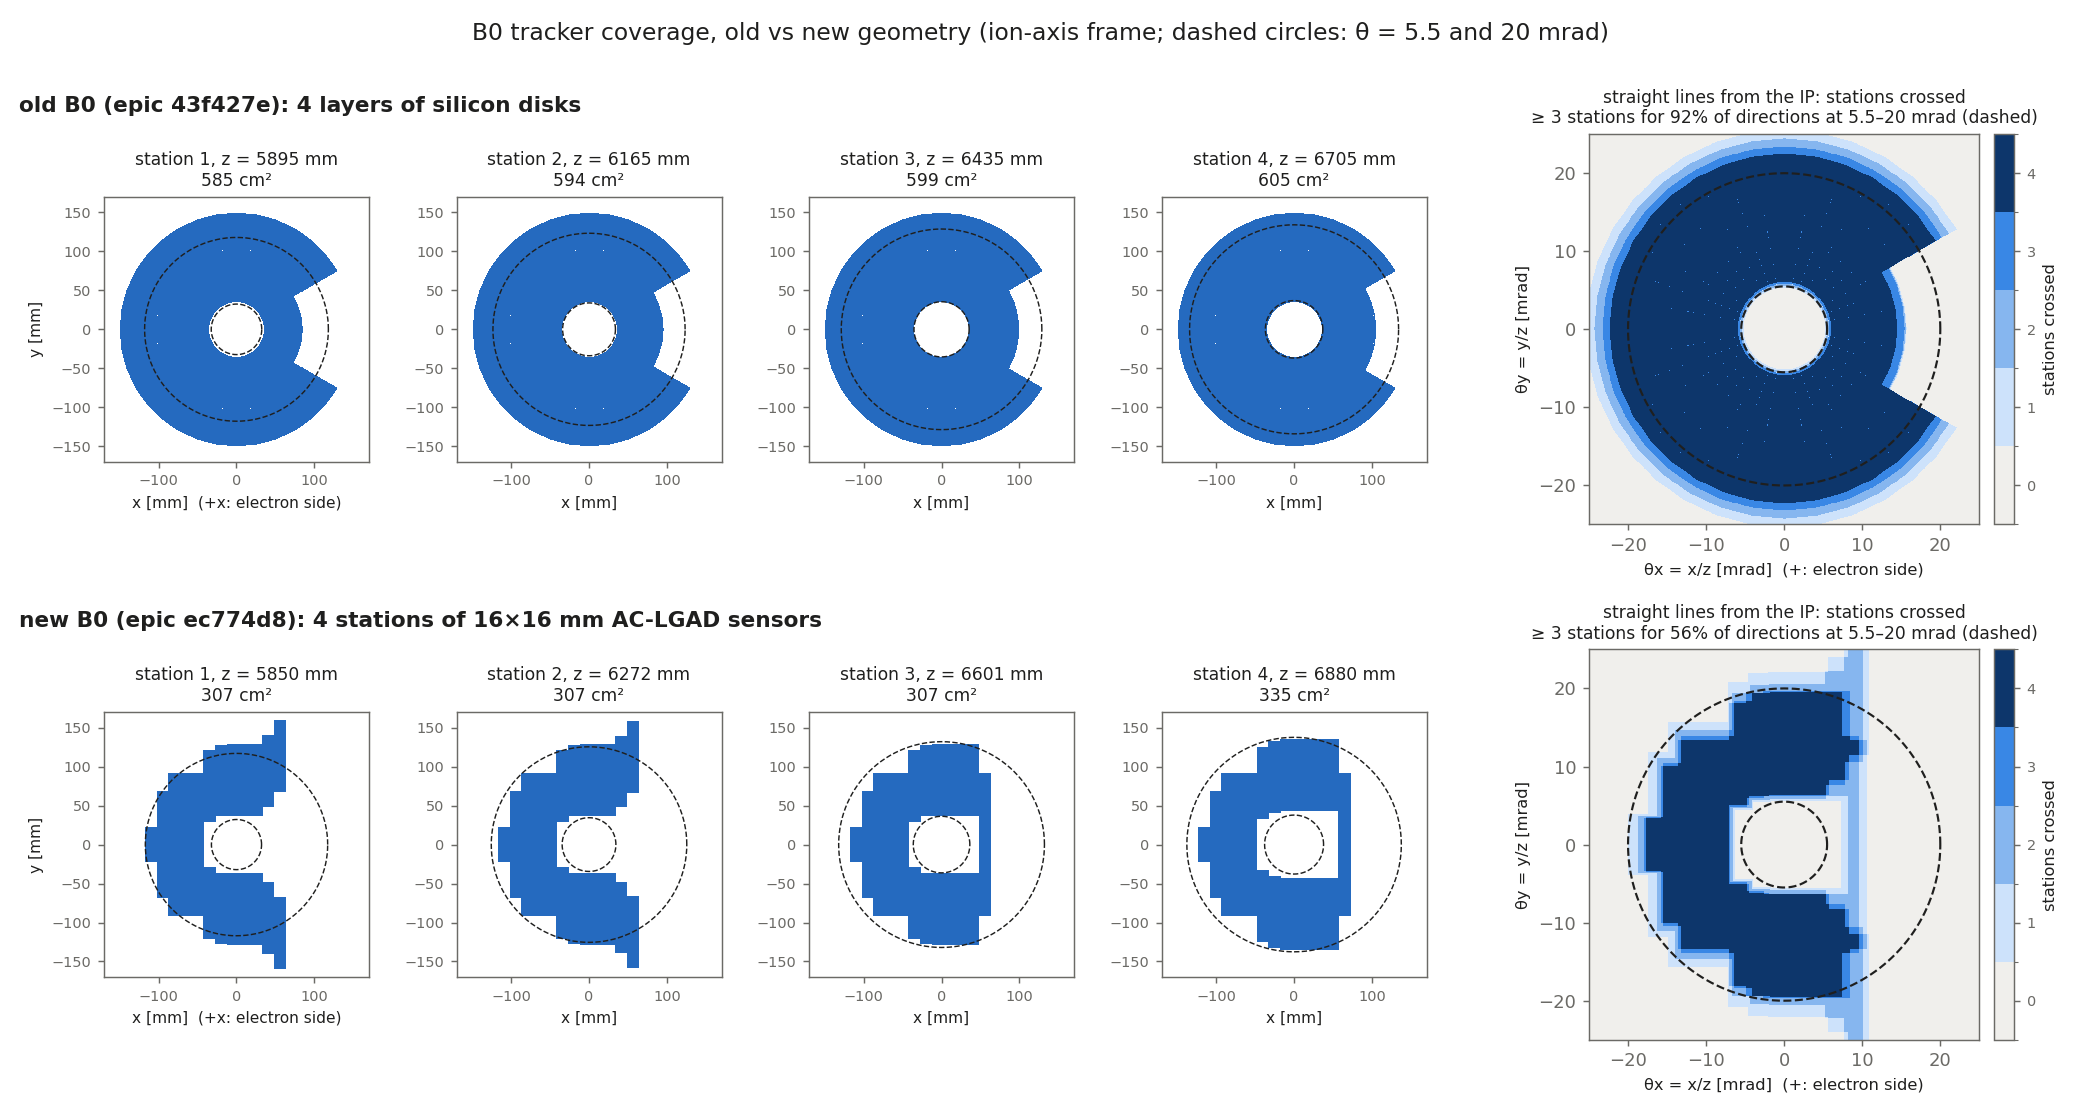
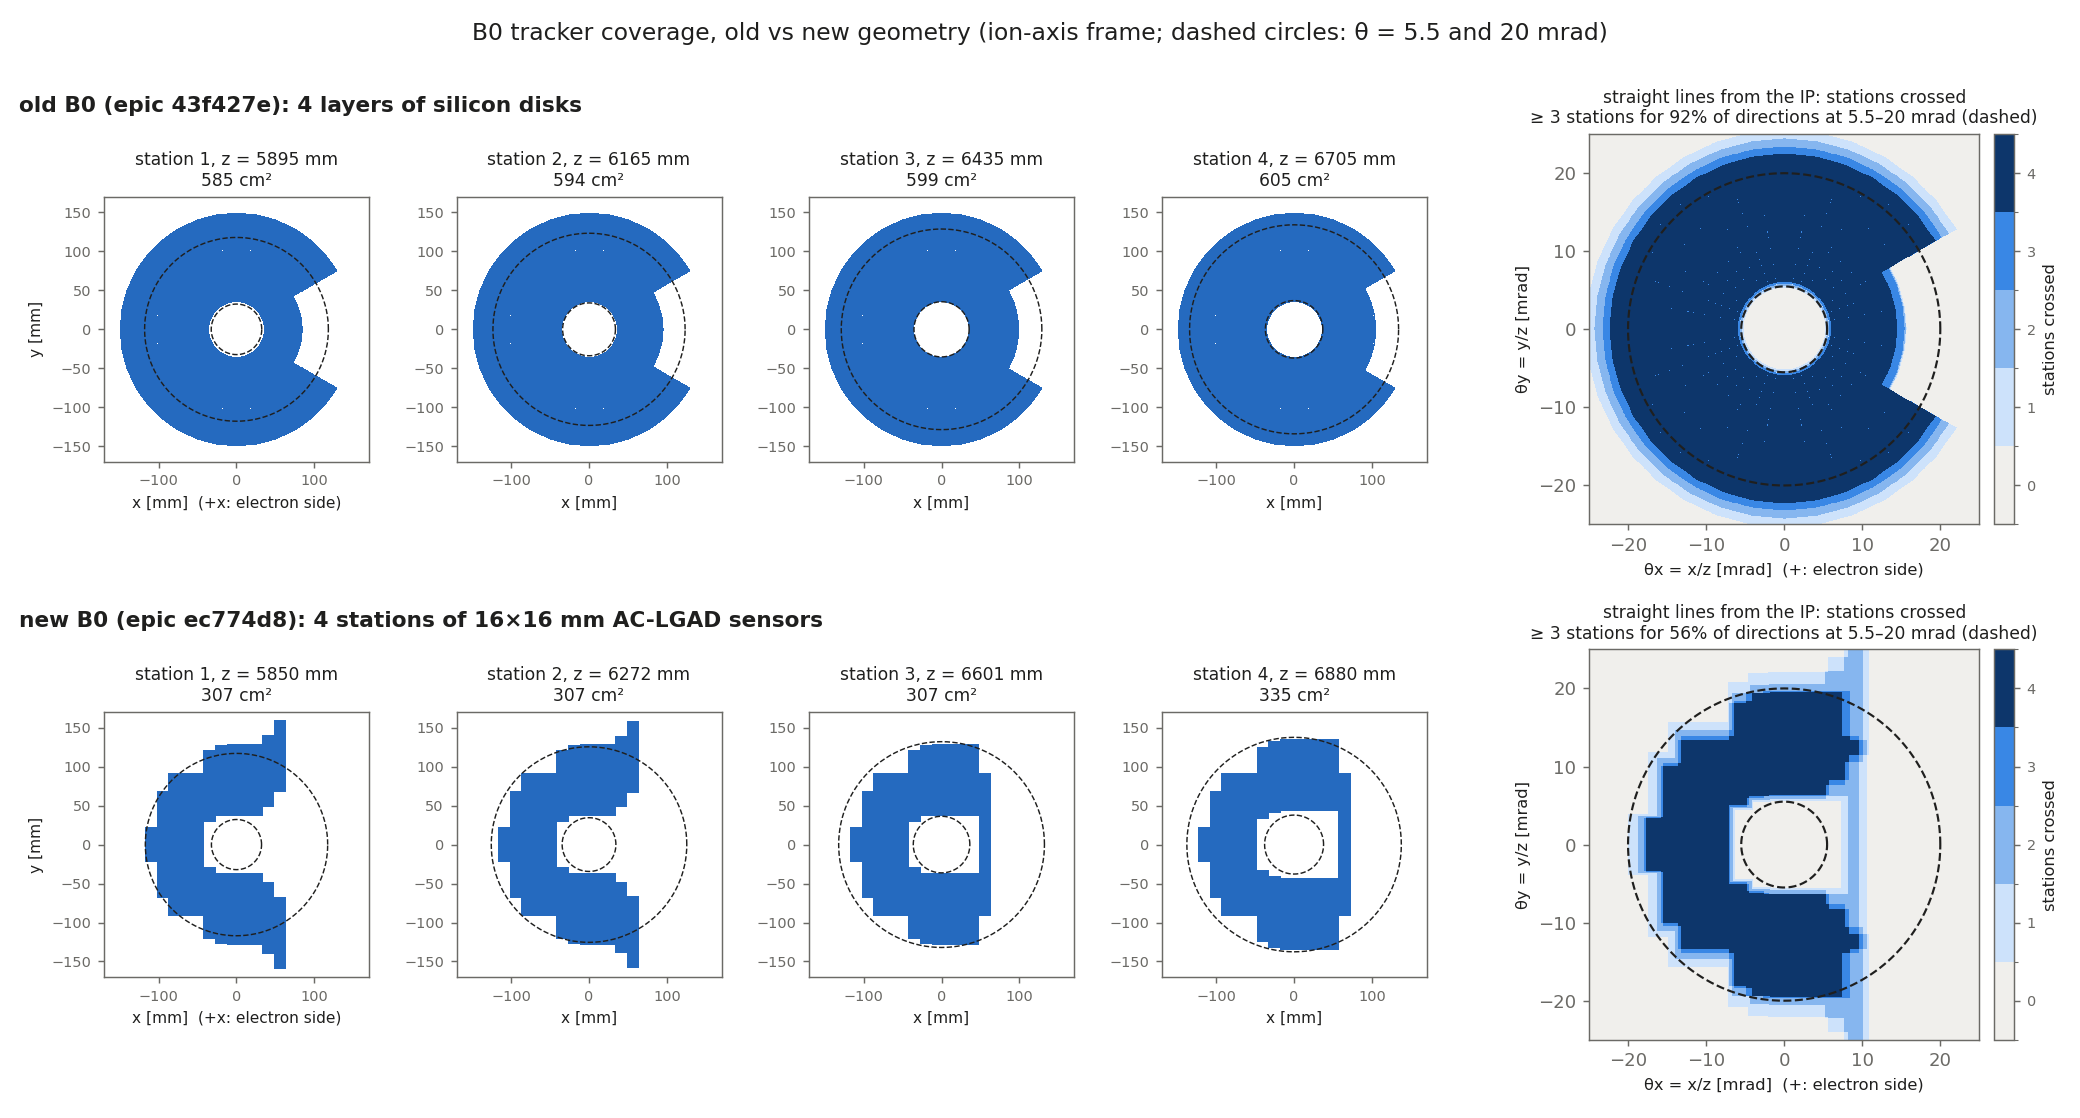
Coverage maps made on lxplus and part of make_results.sh 02; lxplus is the only working copy

diff --git a/notes/claude_log.md b/notes/claude_log.md
@@ -526,3 +526,5 @@ Macro `~/private/eic/compare_tracks.C` (run in `~/private/eic`). Both use the co
   - Q&A: sensitive area = cm² of silicon per station plane (counts silicon outside the B0 cone too, e.g. the old disks reach r = 150 mm, beyond 20 mrad); straight-line coverage = fraction of directions in the 5.5–20 mrad cone (solid-angle weighted) whose line from the IP crosses sensors in ≥ 3 stations, i.e. where the silicon is and whether the stations line up. Neither is the Λ acceptance (displaced decay vertex, B0 dipole bends the π⁻, both daughters needed).
 - 2026-11-19: coverage maps with the beamline (user: keep the previous plots too). `b0area.py <dir> out.png` now writes out.png (unchanged) and out_beamline.png: station panels (±235 mm) also show the proton pipe (Be tube r = 31 mm on the ion axis, src/forwardBeamPipeBrazil.cpp, same in both geometries), the electron final-focus quadrupole Q0EF (z = 5.8–7.0 m, on the electron axis at x = +z·tan 25 mrad = 146–172 mm, outer support r = 60.9 mm) and the B0 dipole bore (r = 200 mm, axis at global x = −145.8 mm). Old: the +x wedge cut-out hugs Q0EF; new: sensors end ~40 mm before it. → `results/02_geometric_acceptance/b0_coverage_maps{,_beamline}.png`.
 - Note: the Mac work folder moved from ~/code/epic-all/epic to ~/code/epic (logs and repo copy now there).
+- 2026-11-19: **lxplus is now the only working copy** (user: no local copy; code, logs and plots updated and run on lxplus). Logs (`notes/claude_log.md`, `notes/claude_commands.md`) are edited directly in the repo; the Mac copies are retired. The old Mac folder (`~/code/epic`, 143 files: early macros, an old plain copy of this repo, `notes/log.md` + plots, `my_log.md`, `p.json` = GitHub API page of EICrecon#3116) archived to `~/private/eic/mac_archive_2026-11-19/` (outside the public repo, checksums verified).
+  - Geometry files for `b0area.py` now in `$EIC_TOP/b0geo` (= ~/private/eic/b0geo); the coverage maps were re-made on lxplus (same figures, lxplus matplotlib) and are part of `make_results.sh 02` (printout `b0_coverage_maps.txt`).

diff --git a/notes/claude_commands.md b/notes/claude_commands.md
@@ -321,3 +321,12 @@ python3 scripts/geometry/b0area.py $D    # areas per station, coverage (>= 3 sta
 ```bash
 python3 scripts/geometry/b0area.py $D results/02_geometric_acceptance/b0_coverage_maps.png   # + coverage maps (matplotlib), also writes b0_coverage_maps_beamline.png
 ```
+
+## 2026-11-19: everything on lxplus
+```bash
+# geometry files for scripts/geometry/b0area.py (once), then section 02 of make_results.sh runs it
+D=$EIC_TOP/b0geo; mkdir -p $D
+for c in 43f427e ec774d8; do for f in compact/far_forward/B0_tracker.xml src/B0Tracker_geo.cpp; do
+  curl -s -o $D/${c}_$(basename $f) https://raw.githubusercontent.com/eic/epic/$c/$f; done; done
+scripts/make_results.sh 02   # geantino acceptance + b0_coverage_maps{,_beamline}.png
+```
